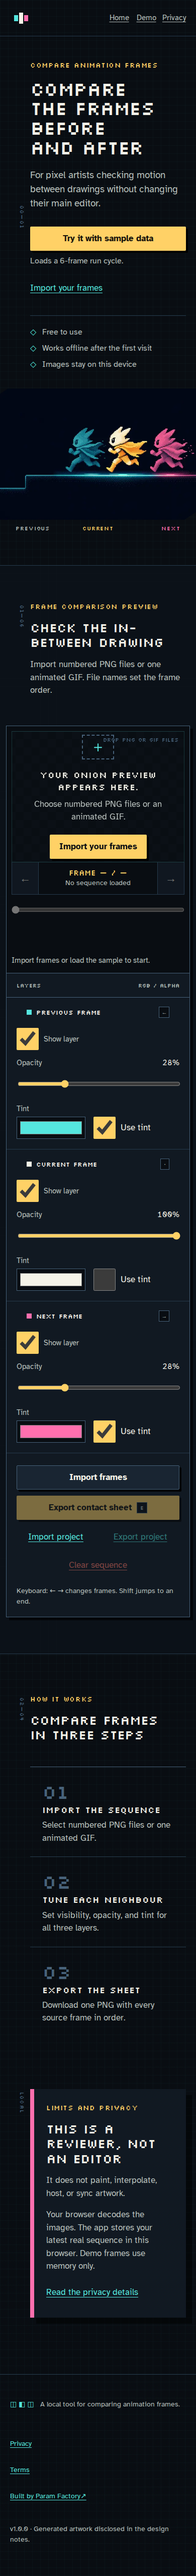
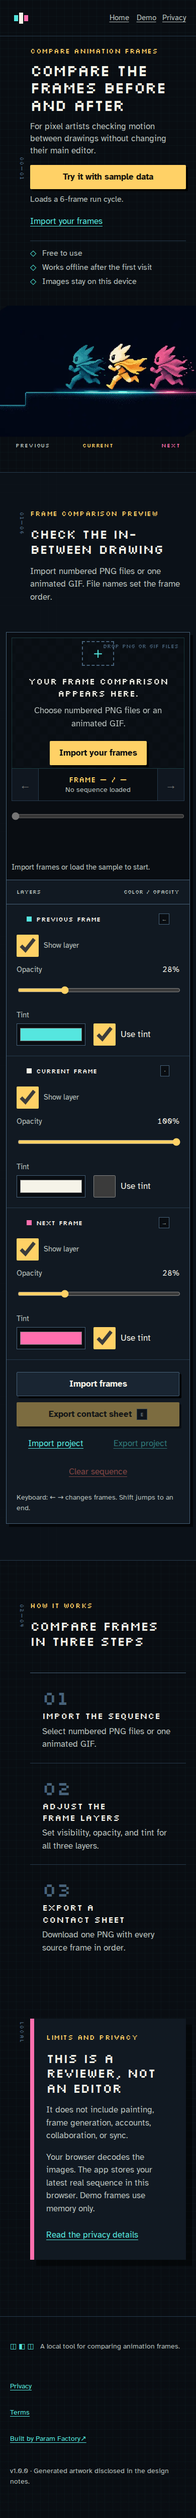
fix: complete mobile first-screen facts

diff --git a/src/styles.css b/src/styles.css
@@ -448,11 +448,15 @@ kbd { padding: 3px 6px; border: 1px solid var(--line); background: var(--void); 
   .demo-banner > div { width: 100%; justify-content: space-between; }
   .section-grid { grid-template-columns: 28px minmax(0, 1fr); gap: 12px; }
   .section-number { font-size: 10px; }
-  .hero { min-height: auto; padding-top: 48px; grid-template-columns: 28px minmax(0, 1fr); }
+  .hero { min-height: auto; padding-top: 20px; padding-bottom: 36px; grid-template-columns: 28px minmax(0, 1fr); }
+  .hero .eyebrow { margin-bottom: 10px; }
+  .hero h1 { margin-bottom: 14px; font-size: clamp(1.9rem, 8.2vw, 2.15rem); line-height: 1.08; }
+  .hero .lede { margin-bottom: 16px; font-size: 17px; line-height: 1.4; }
   .hero-art { grid-column: 1 / -1; width: calc(100% + 40px); margin: 24px -20px 0; }
   .hero-art figcaption { padding-inline: 8%; }
-  .hero-actions { align-items: flex-start; flex-direction: column; gap: 8px; }
-  .hero-actions .key { width: 100%; }
+  .hero-actions { align-items: flex-start; flex-direction: column; gap: 8px; margin: 16px 0 10px; }
+  .hero-actions .key { flex: 0 0 auto; width: 100%; }
+  .fact-list { margin-top: 16px; padding-top: 12px; gap: 4px; }
   .demo-compact { width: calc(100% - 24px); padding: 12px 0 8px; }
   .demo-compact h1 { max-width: 16ch; margin-bottom: 8px; font-size: clamp(1.65rem, 7.2vw, 2rem); }
   .demo-compact .lede { font-size: 17px; line-height: 1.35; }

diff --git a/tests/quality.spec.ts b/tests/quality.spec.ts
@@ -146,6 +146,18 @@ test('the desktop first screen keeps all three product facts beside the primary 
   expect(facts!.y + facts!.height).toBeLessThanOrEqual(900);
 });
 
+test('the mobile first screen keeps all three product facts readable', async ({ page }) => {
+  await page.setViewportSize({ width: 390, height: 844 });
+  await page.goto('/');
+  const facts = await page.locator('.fact-list').boundingBox();
+  expect(facts).not.toBeNull();
+  expect(facts!.y).toBeGreaterThanOrEqual(0);
+  expect(facts!.y + facts!.height).toBeLessThanOrEqual(844);
+  await expect(page.locator('.fact-list')).toContainText('Free to use');
+  await expect(page.locator('.fact-list')).toContainText('Works offline after the first visit');
+  await expect(page.locator('.fact-list')).toContainText('Images stay on this device');
+});
+
 test('every visible landing-page link and button has a 44px touch target at 390px', async ({ page }) => {
   await page.setViewportSize({ width: 390, height: 844 });
   await page.goto('/');

diff --git a/.factory/qa-evidence-8/verify-local/index.html b/.factory/qa-evidence-8/verify-local/index.html
@@ -21,8 +21,8 @@
     <link rel="icon" href="/favicon.svg" type="image/svg+xml" />
     <link rel="apple-touch-icon" href="/apple-touch-icon.png" />
     <link rel="manifest" href="/manifest.webmanifest" />
-    <script type="module" crossorigin src="/assets/index-BH4U8vpQ.js"></script>
-    <link rel="stylesheet" crossorigin href="/assets/index-DvHEfmQX.css">
+    <script type="module" crossorigin src="/assets/index-DjWQPTY5.js"></script>
+    <link rel="stylesheet" crossorigin href="/assets/index-sENkcuC3.css">
   </head>
   <body>
     <div id="app"></div>
